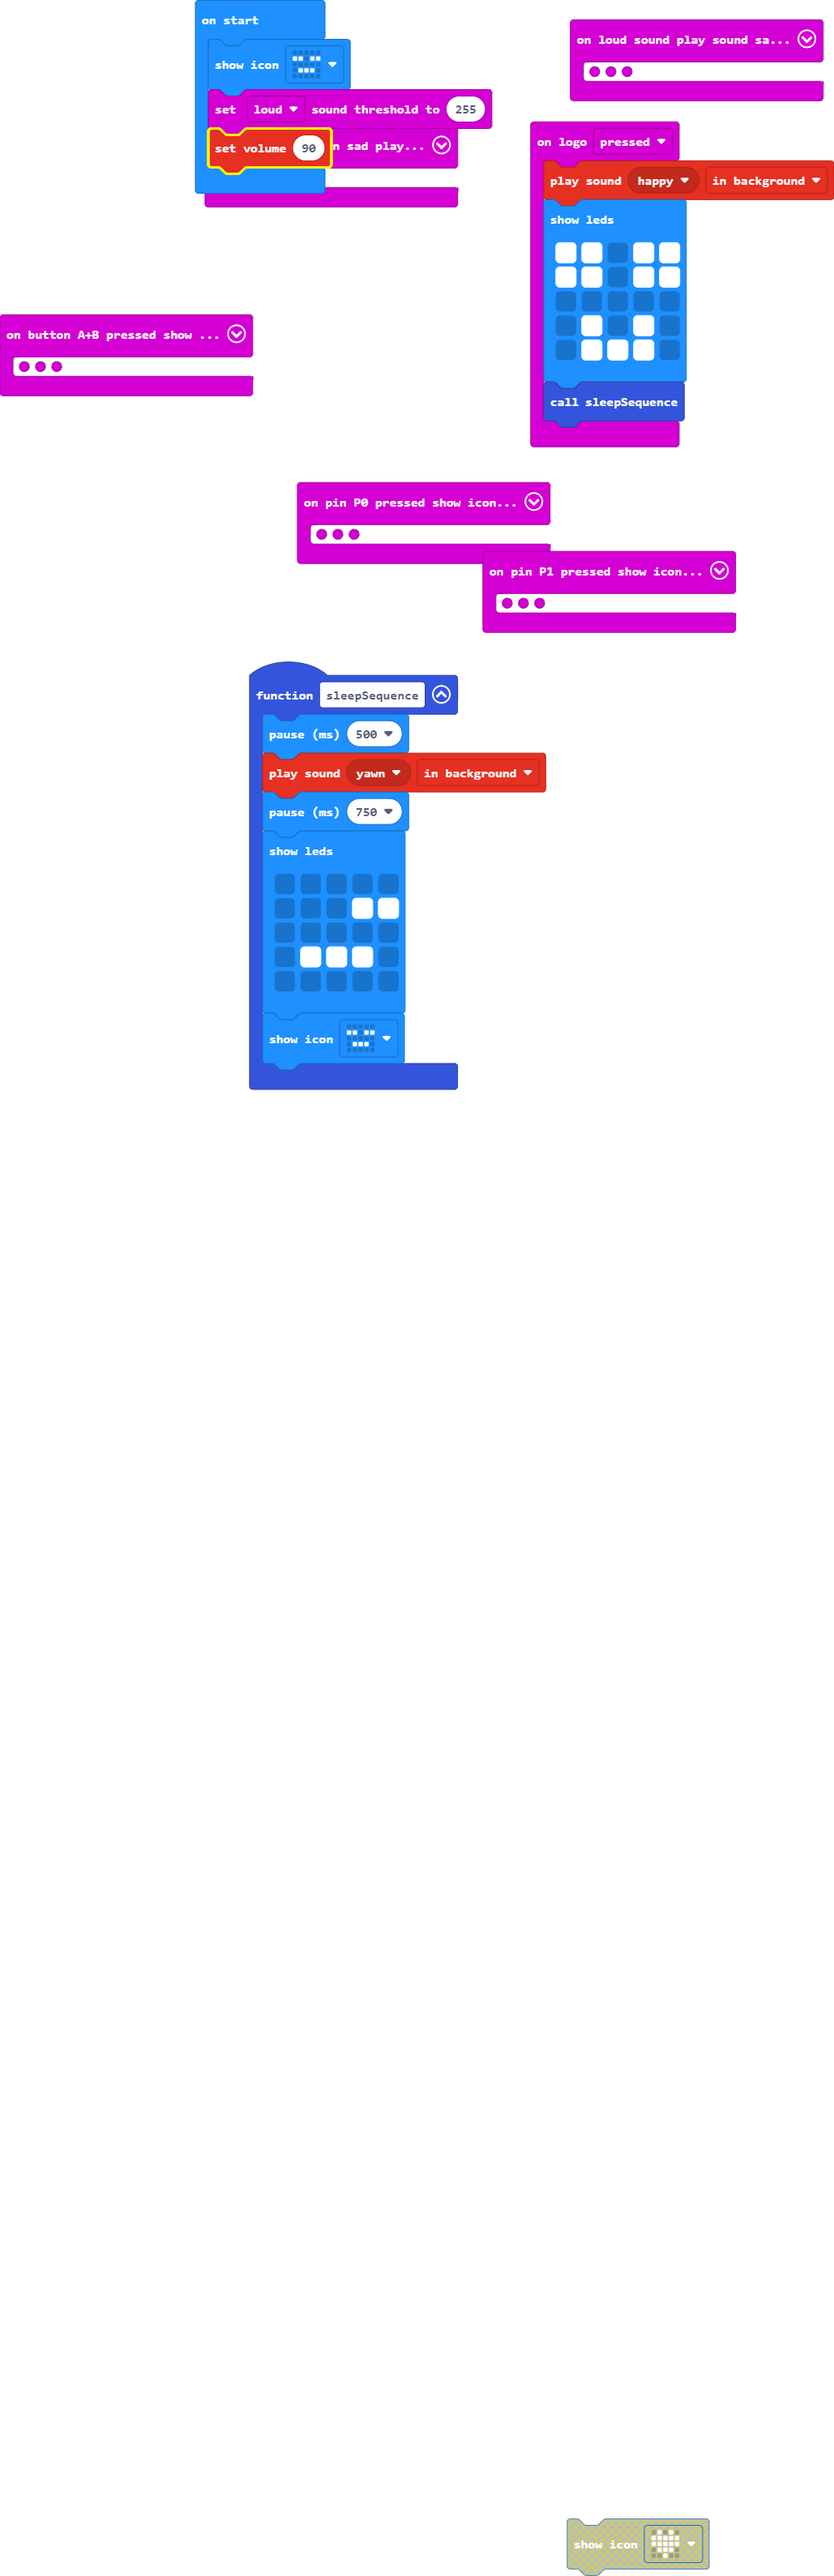
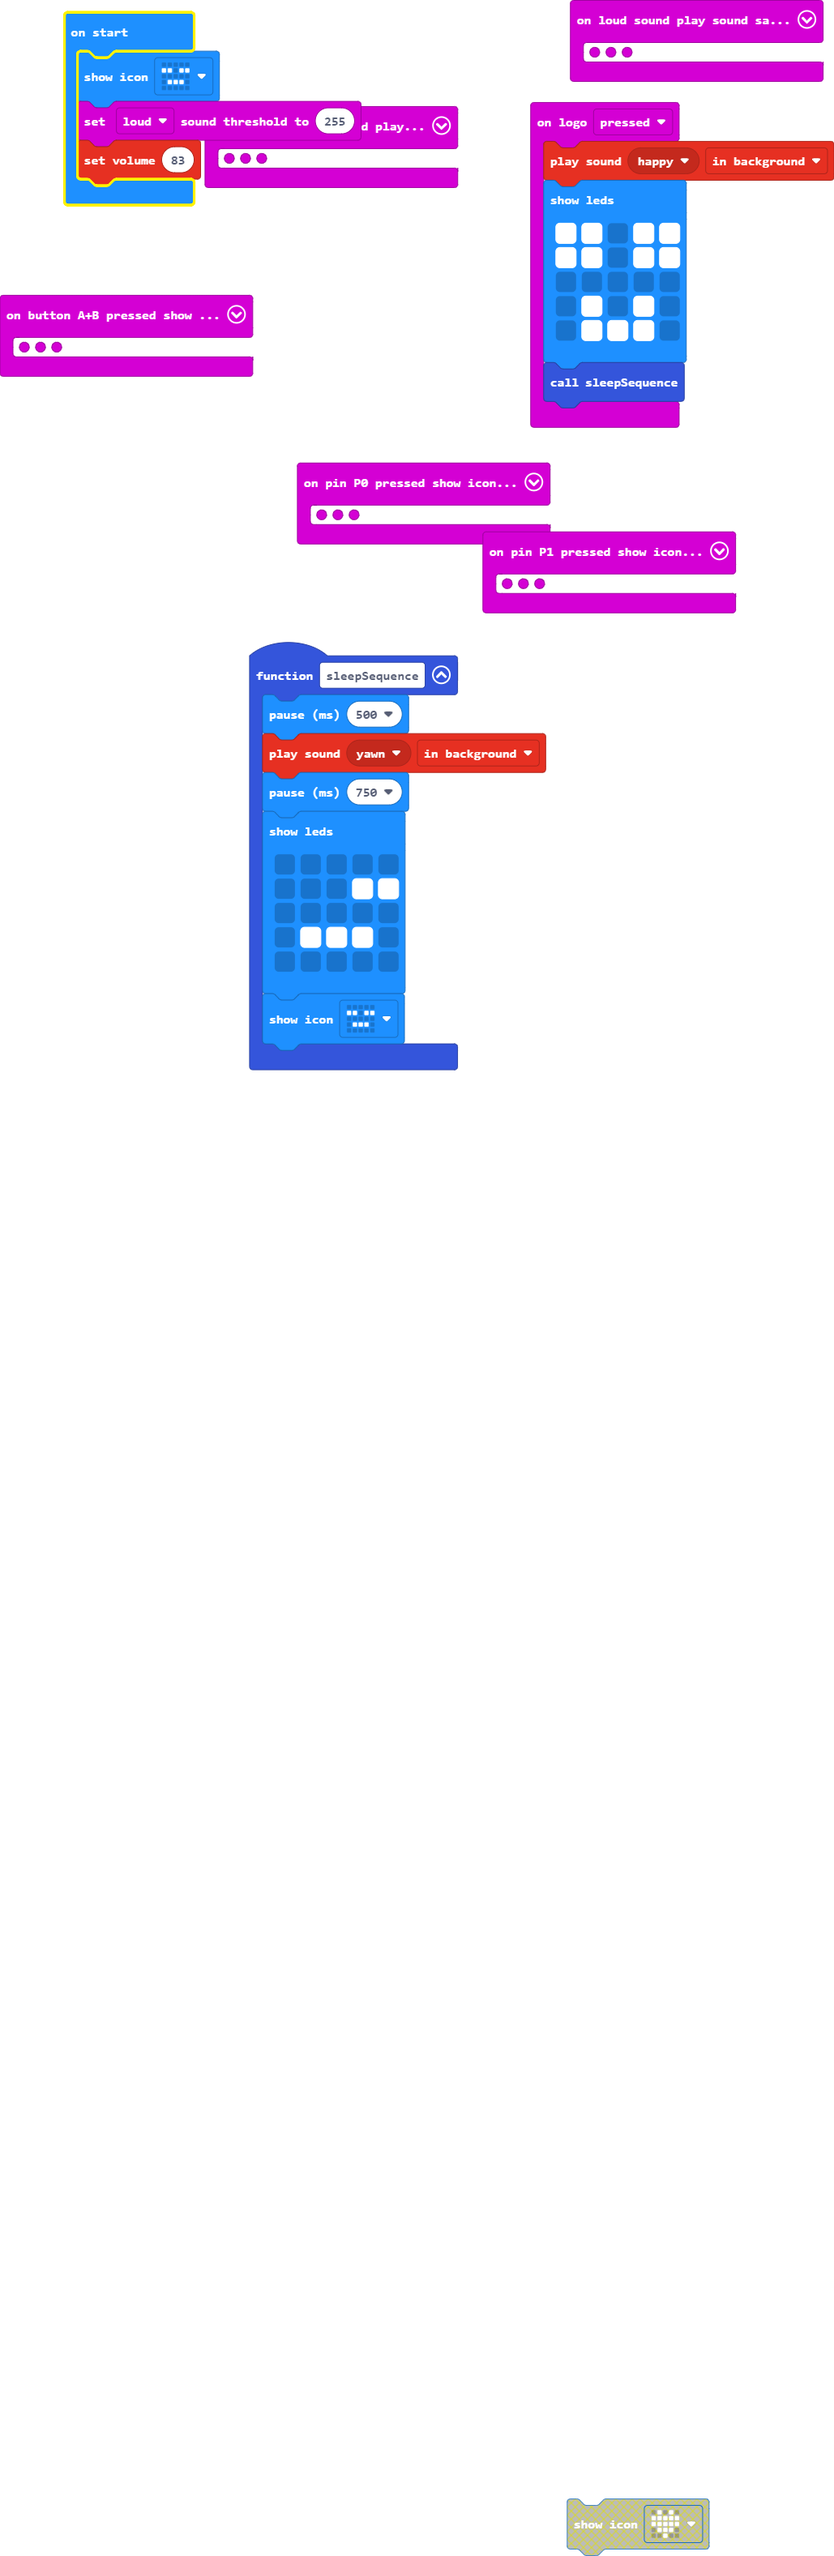
volume perfected

Changed region(s): [[0.3421, 0.0, 1.0, 0.2486], [0.0, 0.0, 0.5909, 0.1554], [0.311, 0.2486, 0.6531, 0.435]]

diff --git a/main.ts b/main.ts
@@ -225,4 +225,4 @@ input.onSound(DetectedSound.Loud, function () {
 })
 basic.showIcon(IconNames.Asleep)
 input.setSoundThreshold(SoundThreshold.Loud, 255)
-music.setVolume(90)
+music.setVolume(83)
